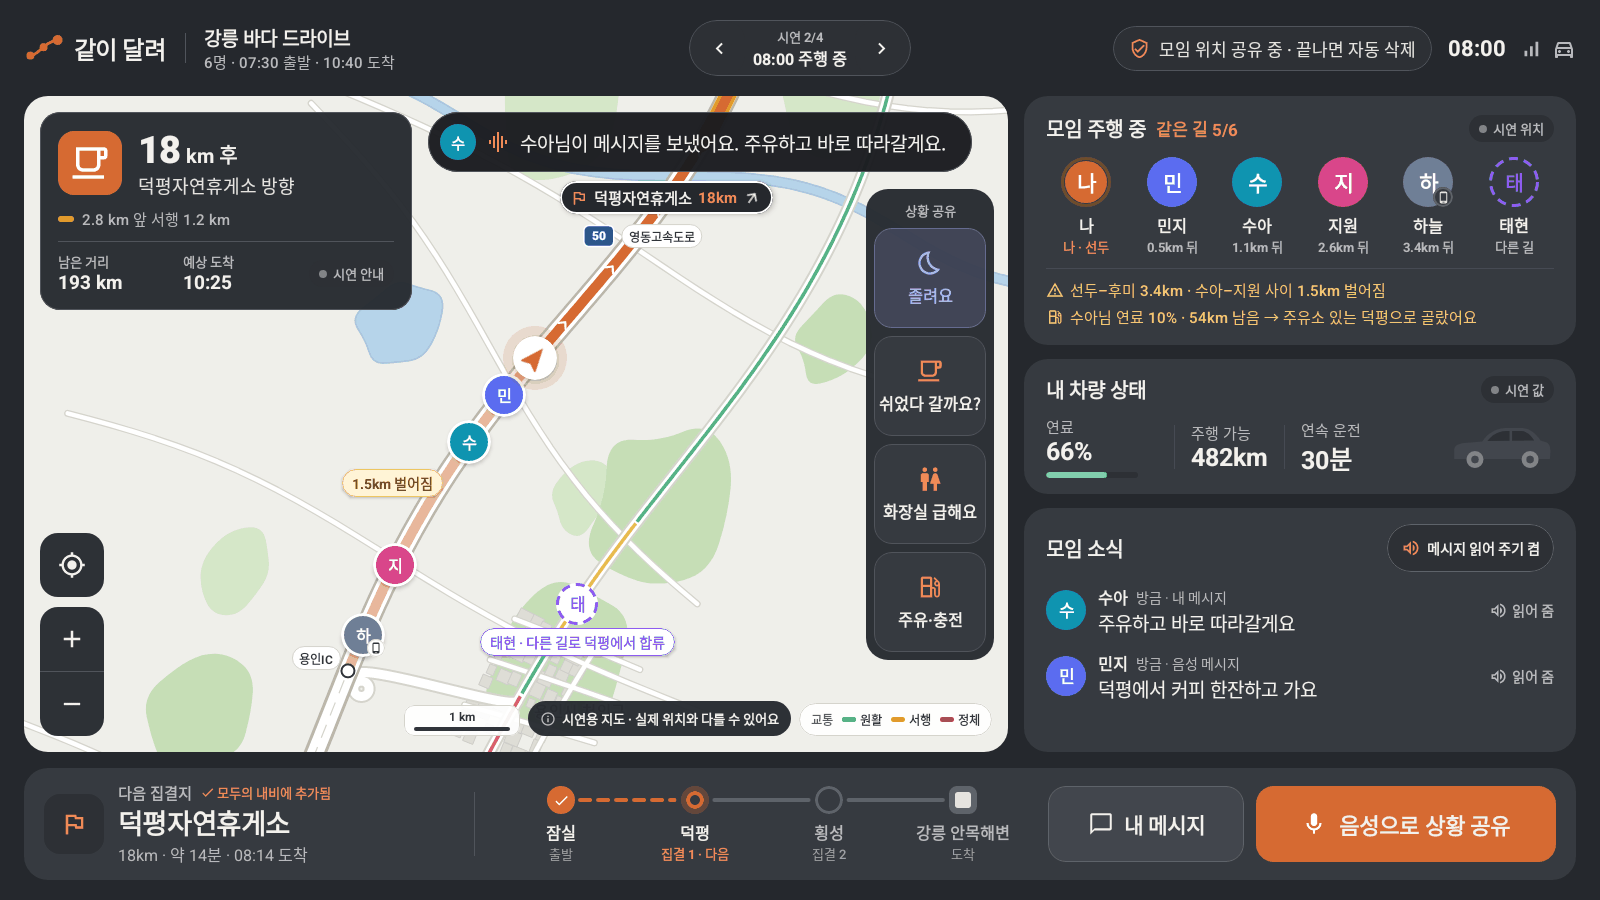
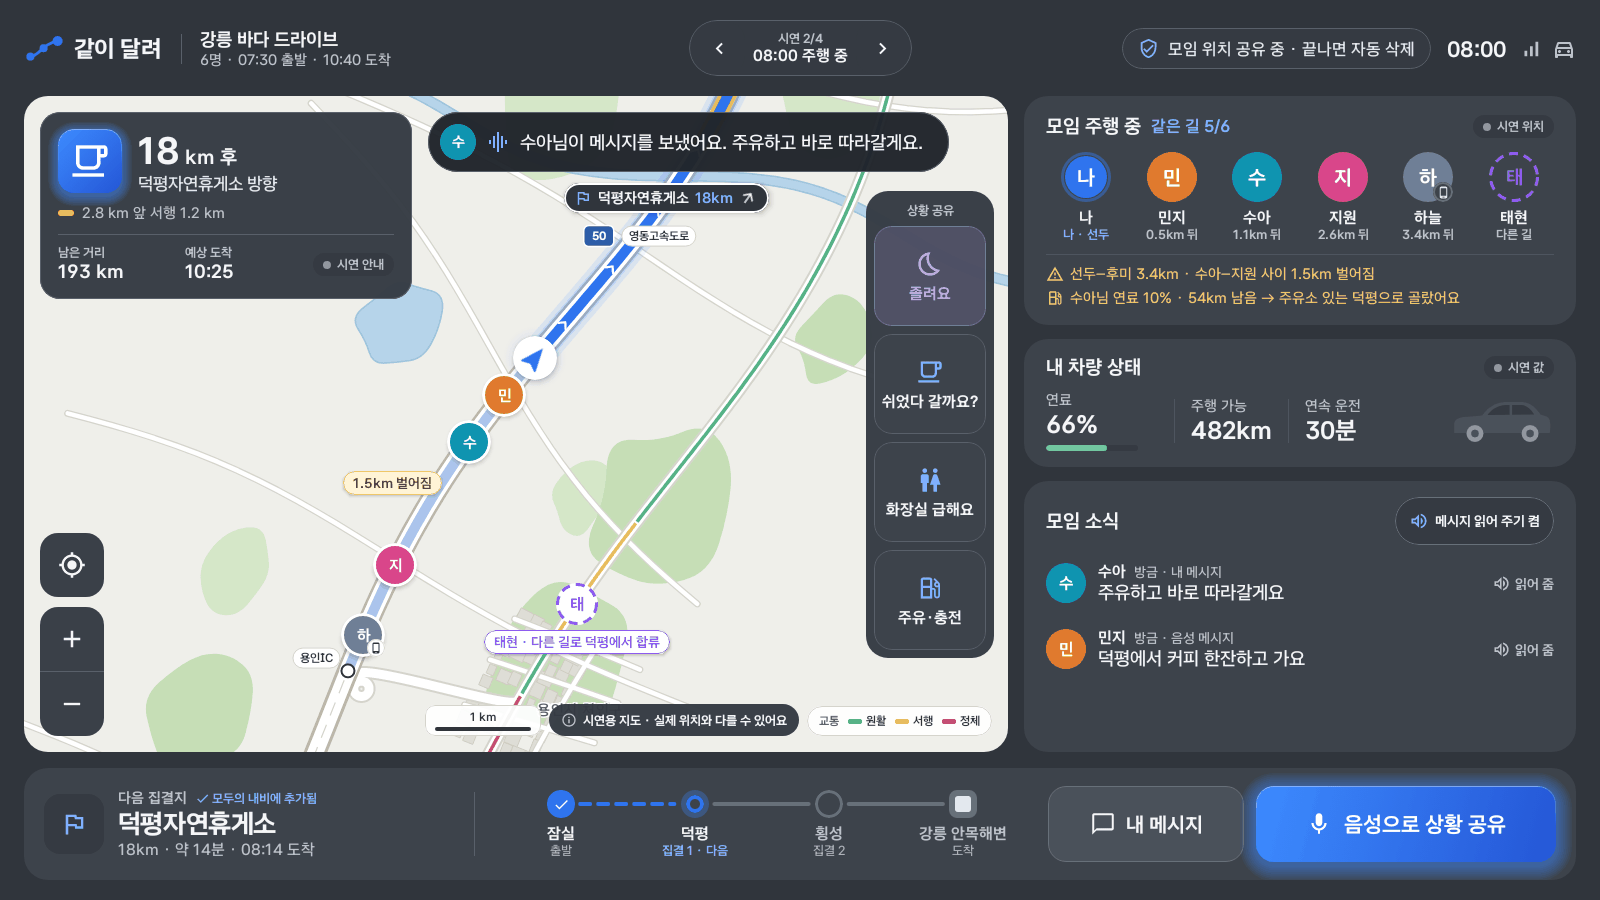
README: 디지털 블루 · Asta Sans 화면으로 바꾸고 디자인 설명 갱신
Claude-Session: https://claude.ai/code/session_01RMhvkZbt1yyGmq5ZhrM1H7

diff --git a/README.md b/README.md
@@ -20,8 +20,11 @@
 | **② 받은 메시지 — 보낸 사람 얼굴과 함께 읽어 줌** | **② 음성으로 상황 공유 — 받아 적은 문장 확인 후 전송** |
 | ![받은 메시지](docs/screenshots/7_message_received.png) | ![음성으로 상황 공유](docs/screenshots/8_voice_share.png) |
 
-화면은 차콜(#25282D · 카드 #363A40) × 번트 오렌지(#D66A32) 토큰으로 통일했습니다 (`ui/theme/Theme.kt`).
-주황은 로고 · 지금 고른 것 · 주요 버튼 · 내 차 위치와 경로 · 집결지 진행 · 중요한 상태에만 씁니다.
+화면은 현대차그룹 SDV 인포테인먼트 Pleos Connect 에 맞춘 디지털 콘셉트입니다 (`ui/theme/Theme.kt`).
+- 글꼴: Pleos Connect 시스템 글꼴 **Asta Sans** (42dot, SIL OFL 1.1 — `assets/licenses/asta_sans_OFL.txt`)
+- 색: 그래파이트(바탕 #30353C · 카드 #3D434B) × 디지털 블루(#2F74EE). 모든 글자는 놓이는 면 위에서 4.5:1 이상
+- 파랑은 로고 · 지금 고른 것 · 주요 버튼 · 내 차 위치와 경로 · 집결지 진행 · 중요한 상태에만 씁니다.
+- 주요 버튼은 디지털 블루 그라데이션(#3D8BFF → #2456D6)과 은은한 바깥 빛, 앞길 경로와 내 차 둘레에도 옅은 빛. 움직이는 효과는 쓰지 않습니다.
 
 ## 지금 들어 있는 것 (v0.1)
 
